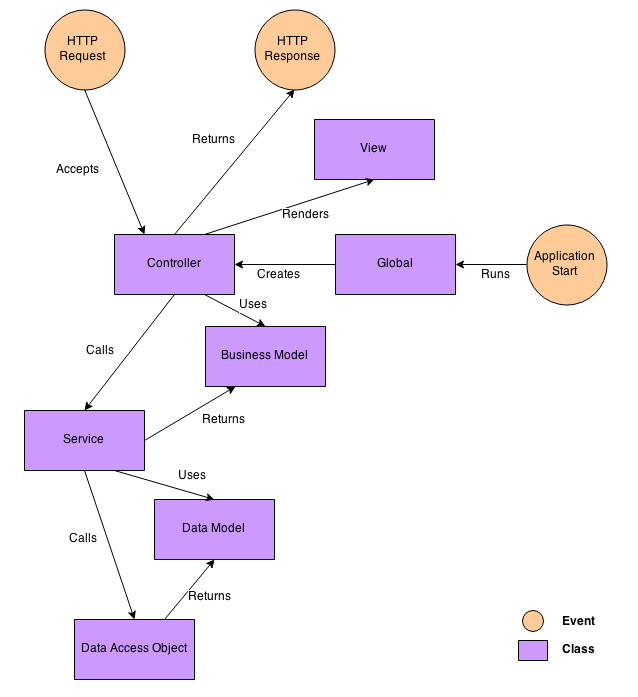
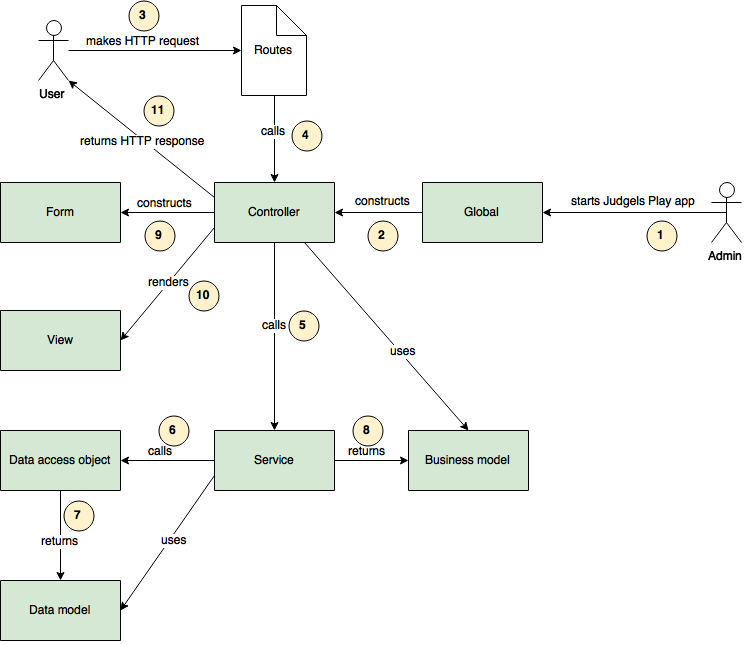
Write Judgels basic concepts for Dev's Guide doc

diff --git a/docs/developers_guide_concepts.rst b/docs/developers_guide_concepts.rst
@@ -1,0 +1,96 @@
+Basic Concepts
+==============
+
+This section will explain the very basic concepts of Judgels project.
+
+Technology stack
+----------------
+
+Language
+    - Java 8 for most code.
+    - Scala for Play's views.
+
+Framework
+    `Play Framework 2.3.7 (Java) <https://www.playframework.com>`_ for Judgels Play applications.
+
+Database
+    `MySQL <https://www.mysql.com>`_ for Judgels Play applications.
+
+ORM
+    `Hibernate <http://hibernate.org/orm/>`_ for Judgels Play applications.
+
+Build system
+    `SBT <http://www.scala-sbt.org>`_, wrapped in `Typesafe Activator <https://www.typesafe.com/community/core-tools/activator-and-sbt>`_.
+
+Sandbox
+    `Moe Contest Environment <http://www.ucw.cz/moe/>`_ (the Isolate module) for Gabriel.
+
+Project structure
+-----------------
+
+Judgels repositories are hosted on GitHub, in IA TOKI organization (https://github.com/ia-toki).
+
+The main repository is the **judgels** repository. The responisibilites of this repository are:
+
+- Hosting Judgels command-line tool, which will be used for installing Judgels applications.
+- Hosting Judgels documentation.
+- Being the central GitHub issue tracker for all Judgels applications.
+
+The other Judgels repositories are prefixed with **judgels-**. For each Judgels application <app>, there will be a repository named **judgels-<app>**, which hosts the application code.
+
+For some Judgels applications, there are **judgels-<app>-commons**, which contains parts of the application that can be used by other applications that depend on it.
+
+judgels-play-commons
+    Mainly consists of:
+
+    - Base model components and their connection management with the database.
+    - Base view components that are shared across all Judgels Play applications. For example: base look-and-feel layout.
+    - Base controller components.
+
+judgels-jophiel-commons
+    Consists of components used by Jophiel clients for connecting to Jophiel.
+
+judgels-sandalphon-commons
+    Consists of components used by other Judgels applications for rendering problems and submitting solutions to Sandalphon.
+
+judgels-uriel-commons
+    Consists of components used by external applications for manipulating contest scoreboards. Currently it is not used yet by any applications other than Uriel.
+
+judgels-sealtiel-commons
+    Consists of components used by other Judgels applications for fetching and sending messages from Sealtiel.
+
+judgels-gabriel-commons
+    Consists of interfaces and implementations of grading engines.
+
+Judgels Play application layers
+-------------------------------
+
+Judgels Play applications are built on top of Play framework. In Play framework, the MVC (Model-View-Controller) pattern is used. In Judgels, we use two other patterns: `Service <http://en.wikipedia.org/wiki/Service_layers_pattern>`_ and `DAO (Data access object) <http://en.wikipedia.org/wiki/Data_access_object>`_.
+
+It will be easier to explain with a diagram. Suppose that a user wants to change his profile on Jophiel. Here is the flow of events that will happen in Jophiel, numbered from 1 through 11. For completeness, we will explain from the start of Jophiel. Each component will be explained along with the explanation of the events.
+
+.. image:: _static/judgels-web-flow.png
+    :align: center
+
+#. Admin starts Jophiel, using :code:`judgels start jophiel` or :code:`judgels run jophiel` command.
+
+#. The Play's `Global <https://www.playframework.com/documentation/2.3.x/JavaGlobal>`_ object is loaded and run. It will construct all controller classes and their dependencies (services), using dependency injection with Spring Framework.
+
+#. User makes HTTP request to change his profile, by opening the URL http://localhost:9001/profile on his browser.
+
+#. The request is passed to the Play's `Routes <https://www.playframework.com/documentation/2.3.x/JavaRouting>`_ object. Based on the request string (**/profile**), the correct controller class and the action method is called. In this case, **UserProfileController**'s **profile()** method is called.
+
+#. The controller checks whether the user has the right permission to perform the action. Then, controller calls the correct method in the service object responsible for user management. Services are objects that do business processes of the system. In this case, **UserProfileService**'s **updateProfile()** is called.
+
+#. The service calls the DAO (Data Access Object) to retrieve the user data model from the database. DAO is an object that provides interface to do queries to the database, regardless of the database's SQL variants. We use Hibernate for wrapping the SQL queries. In this case, **UserDao**'s **findByJid()** is called. The user's JID is passed to the method.
+
+#. The DAO finds the correct user record in the database, wraps it into a data model object, and return it. Data model is the Java class representation of a row in the database table. Fields in data model represent columns in the database table. We use `JPA (Java Persistence API) <http://en.wikipedia.org/wiki/Java_Persistence_API>`_ for describing the table and columns in Java. In this case, the user data model class is **UserModel**. We also use metamodels; see `Syntactically correct and type-safe JPA queries in Play 2.0 <http://blog.lunatech.com/2012/04/16/jpa-queries-playframework-20>`_ for more details.
+
+#. The service retrieves the returned user data model, and wraps into a user business model object. This business model represent data structure that does not depend on database, and is used by controllers, views, and the other services. They do not care how the business model was constructed. In this case, the user business model class is **User**. Normally, the business model class is similar to its data model class counterpart. Then, the user business model object is returned by the service.
+
+#. The controller retrieves the returned user business model. Then the controller uses the user's properties to construct the form object. In this case, the form class is **UserProfileForm**.
+
+#. The controller passes the form to the view object to render. We use `Twirl <https://www.playframework.com/documentation/2.3.x/ScalaTemplates>`_, the default Play's templating engine. The whole view and form are rendered as HTML page.
+
+#. The controller returns an HTTP response to the user. The user is then able to fill the form for changing his profile. The flow finishes.
+

diff --git a/docs/developers_guide.rst b/docs/developers_guide.rst
@@ -1,0 +1,9 @@
+Developer's Guide
+=================
+
+As Judgels is open source, we recommend anyone to contribute to Judgels development. This section is intended for getting new Judgels developers up to speed.
+
+.. toctree::
+   :maxdepth: 2
+
+   developers_guide_concepts

diff --git a/docs/index.rst b/docs/index.rst
@@ -15,5 +15,5 @@ Welcome to Judgels' documentation!
    Uriel
    ContestTypes
    Troubleshooting
-   DevelopersGuide
+   developers_guide
    FutureTargets
